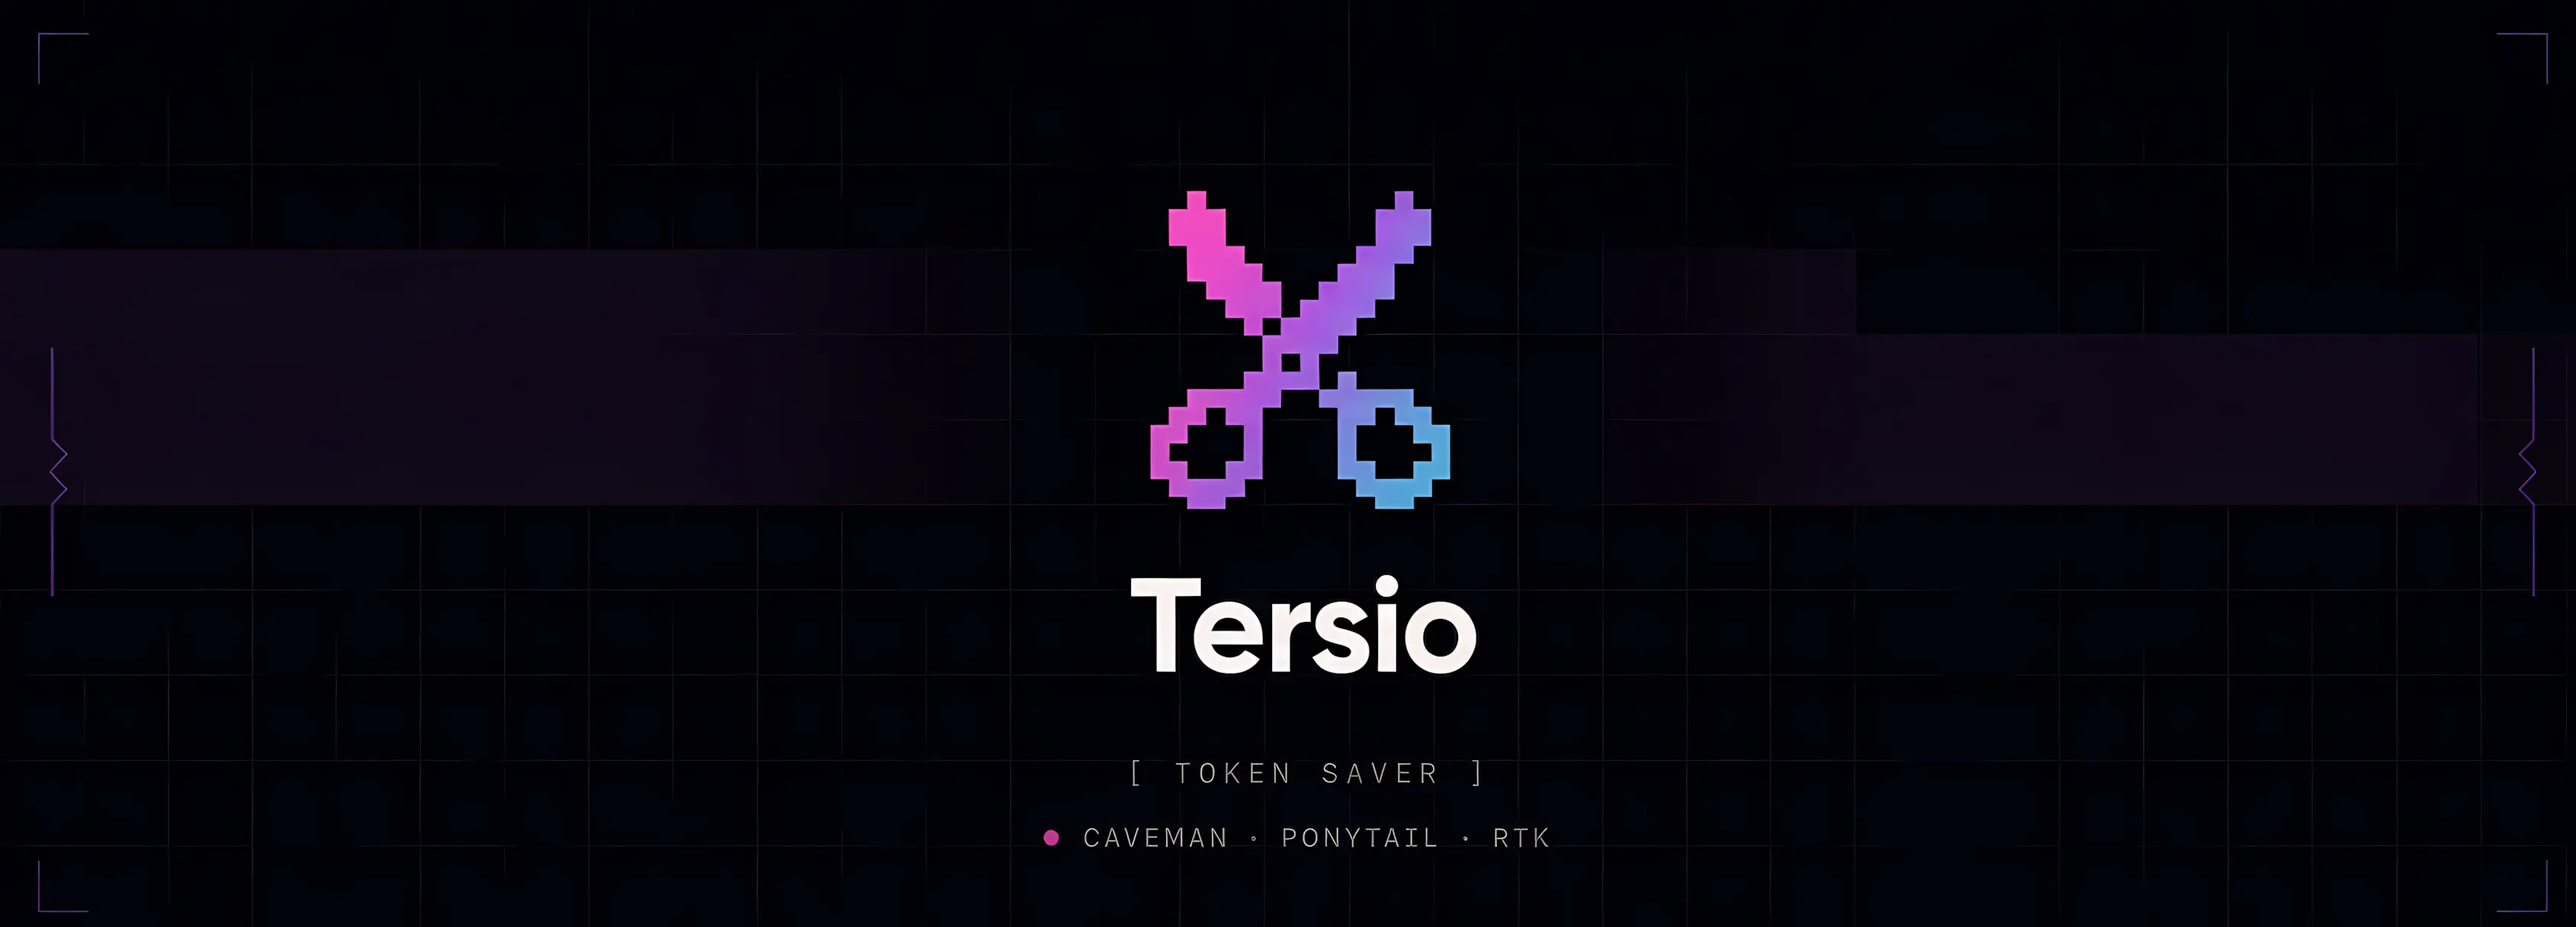
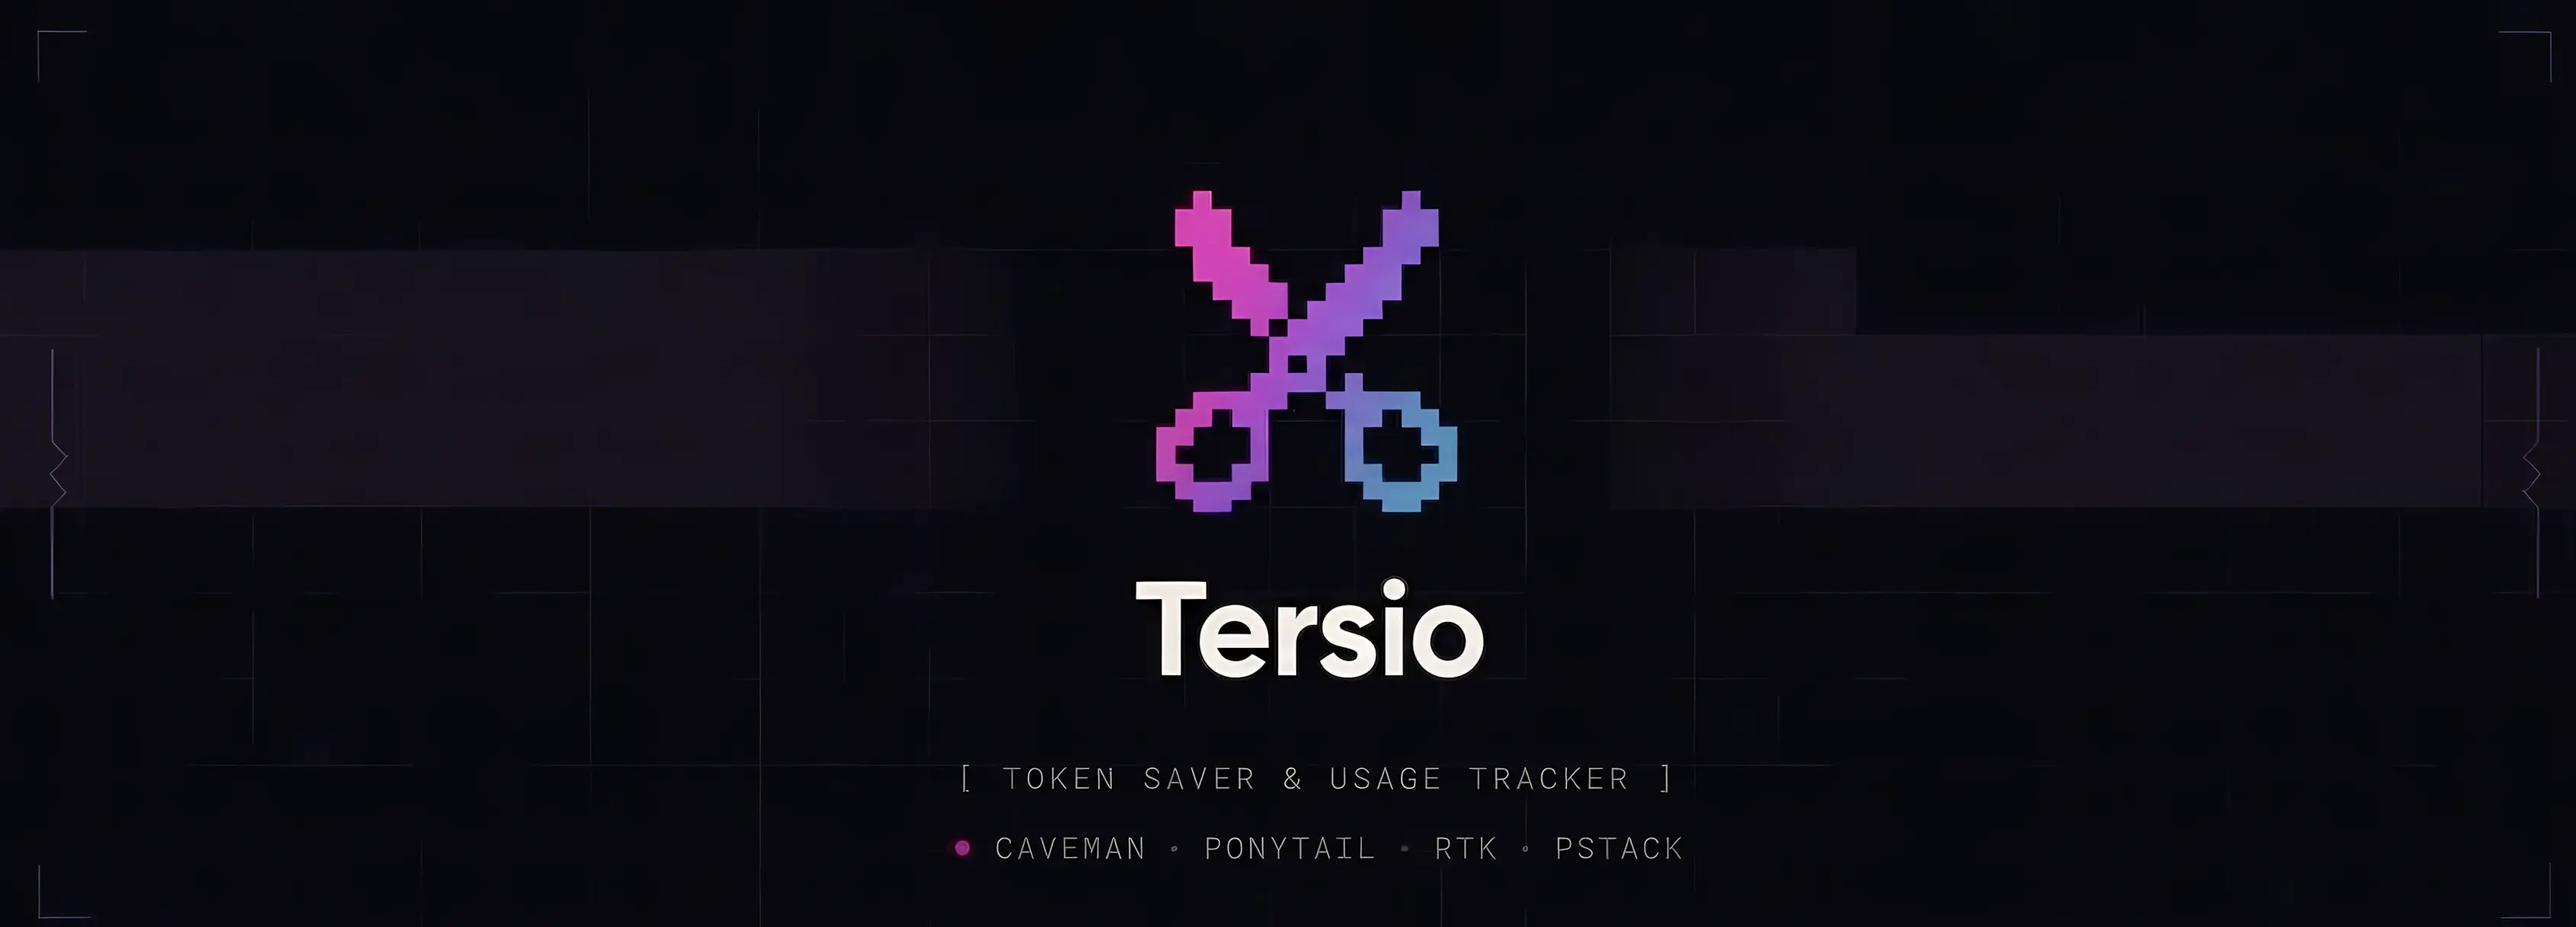
docs: move the benchmark detail out of the README and rule pstack into the protocol
The README carried a benchmark table whose numbers already live in docs/BENCHMARK.md, so the section and its four paragraphs are gone, and the intro now points at the file.

The Model prices and Price sources rows in Files and backups keep the facts and drop the prose: the precedence order, the local override, the unpriced hint.

docs/BENCHMARK.md gains pstack: the mode table and the Combo levels it rides, a scoring subsection (no token claim, quality gates and review rounds only, block 1,374 tokens), the run helper with its fifth flag, pstack in the agentic gates, the traps line for a preset left on, the reporting columns, and the checklist item.

Includes docs/Banner.webp, updated on disk.

diff --git a/README.md b/README.md
@@ -1,6 +1,6 @@
 ![Banner](./docs/Banner.webp)
 
-# ✂ Tersio — Token Saver OMP & Usage Tracker
+# ✂ Tersio — Token Saver & Usage Tracker
 
 [![npm version](https://shieldcn.dev/npm/@krtclcdy%2Ftersio.svg?variant=branded&size=xs&logo=npm)](https://www.npmjs.com/package/@krtclcdy/tersio)
 [![node](https://shieldcn.dev/badge/node-%3E%3D20.12-22c55e.svg?variant=branded&size=xs&logo=nodedotjs)](https://nodejs.org)
@@ -9,6 +9,8 @@
 [![MIT](https://shieldcn.dev/badge/license-MIT-2563eb.svg?variant=branded&size=xs&logo=opensourceinitiative)](./LICENSE)
 
 Token saver & usage tracker for coding agents: terse caveman replies, compact RTK shell output, lean Ponytail code calls, a pstack rigor mode, and a gain dashboard — one-command combo presets over one shared extension tree.
+
+Measured savings per mode, the prompt overhead each one adds, and the rerun protocol: [docs/BENCHMARK.md](./docs/BENCHMARK.md).
 
 ## ⚡ Getting Started
 
@@ -54,31 +56,6 @@ npm exec --yes --prefer-online --package=@krtclcdy/tersio@latest -- tersio insta
 - macOS or Linux, native or WSL
 
 On Windows, use WSL. There is no native Windows path: the installer, the extensions, and the RTK wiring are tested on macOS and Linux only. WSL has its own home directory, so install from inside WSL — `command -v npm` must resolve to a Linux path, not `/mnt/c/`.
-
-## 📊 Benchmarks
-
-Every mode is measured against a base run with all modes off. Measured surfaces use different boundaries. Do not treat reply-text, code-output, and shell-output reductions as total bill savings. **A mode also spends tokens on the prompt, on every turn — read the caveat under the table before choosing.** Results and the rerun protocol are in [docs/BENCHMARK.md](./docs/BENCHMARK.md).
-
-| Mode | Surface (n) | Base → Tersio | Δ |
-|---|---|---|---|
-| `/caveman full` | Terse reply, o200k tokens (3 samples, p50) | 124 → 107 | **−13.7% reply text** |
-| `/caveman ultra` | Terse reply, o200k tokens (3 samples, p50) | 124 → 109 | **−12.1% reply text** |
-| `/ponytail lite` | Code reply, o200k tokens (3 samples, p50) | 306 → 177 | **−42.2% code** |
-| `/ponytail full` | Code reply, o200k tokens (3 samples, p50) | 306 → 208 | **−32.0% code** |
-| `/ponytail ultra` | Code reply, o200k tokens (3 samples, p50) | 306 → 112 | **−63.4% code** |
-| `/combo medium` | Code reply, o200k tokens (3 samples, p50) | 306 → 132 | **−56.9% code** |
-| `/rtk on` — `bun run test` | Command output (3 runs, p50) | 4,003 → 54 | **−98.7% output** |
-| `/rtk on` — `find . -name '*.test.ts'` | Command output (3 runs, p50) | 10,908 → 248 | **−97.7% output** |
-| `/rtk on` — `ls -la .` | Command output (3 runs, p50) | 983 → 275 | **−72.0% output** |
-| `/rtk on` — `git status` | Command output (3 runs, p50) | 72 → 18 | **−75.0% output** |
-| `/rtk on` — `bun run build` | Command output (3 runs, p50) | 140 → 114 | **−18.6% output** |
-
-The two `/caveman` rows above are the exception worth naming: both levels spend more prompt tokens than the reply text they save, so they cost you money on net. Use Caveman for the terser writing style, not as a token saving.
-
-Prompt overhead is included in [docs/BENCHMARK.md](./docs/BENCHMARK.md) with a full prompt-base example. Summary: `/rtk on` pays back immediately, `/ponytail ultra` repays in about 7 code tasks, `/combo medium` in about 8, and every Caveman level costs more in prompt than it saves in reply text. pstack adds 1,374 tokens of prompt per turn, close to Caveman full's 1,158, and has no measured reply-text saving; its rules are trimmed to what caveman and ponytail do not already say.
-
-The Command tools dashboard reports weighted RTK command-output savings and OMP-specific adoption from executed Bash records. It does not estimate provider billing.
-Upstream Ponytail's fair agentic benchmark reports 54% less code, 22% fewer tokens, 20% lower cost, and 100% retained safety. RTK estimates command-output tokens, not bill savings. Caveman and Ponytail compliance varies by model. Measure your own sessions with `tersio usage` and the dashboard.
 
 ## 🖥 CLI
 
@@ -131,8 +108,8 @@ Shared, and identical for every host:
 | RTK binary | `~/.bun/bin/rtk` (`rtk.exe` on Windows). The runtime resolves `PATH` first, then this managed path. |
 | Usage ledger and price cache | `~/.tersio/` — local only, nothing leaves the machine |
 | `usage.db` host scope | `~/.tersio/usage.db` mirrors every agent Tersio reads: omp and pi transcripts, the OpenCode JSON tree, and the OpenCode v2 sqlite rows. Each row records its host and its agent kind, so a report splits by agent and by main agent or subagent. |
-| Model prices | `~/.tersio/prices.json` is a cache of LiteLLM's feed, refreshed in the background. `~/.tersio/prices.local.json` is yours: one entry per model id, keyed as the transcript spells it or with a `*` prefix to cover every gateway prefix. It wins over the feed, and it is how a gateway model the feed keys under another provider gets its real rate. `tersio usage` prints an `Unpriced (heaviest first)` line naming the model keys to add. |
-| Price sources | The cost the host itself reported wins over every rate card: it is the only figure from the party that billed. A recorded zero is a real zero, not a missing value — omp flags a request it could not price in a separate field, so a zero is a free model. A model counts as host-priced only when every one of its messages carried a cost. Then `prices.local.json`, then the LiteLLM cache, then a default table the report labels as a guess. |
+| Model prices | `~/.tersio/prices.json` caches LiteLLM's feed; `~/.tersio/prices.local.json` is yours, keyed by model id or a `*` gateway prefix, and it wins over the feed. `tersio usage` prints an `Unpriced` line naming the keys to add. |
+| Price sources | The host's own reported cost first, then `prices.local.json`, then the LiteLLM cache, then a default table the report labels a guess. A recorded zero is a real zero. A model counts as host-priced only when every message carried a cost. |
 | Data snapshots | `~/.tersio/backups/` — one directory per snapshot with a `manifest.json`; six are kept |
 
 Per host, written by `tersio install --host <omp|pi|opencode>`:

diff --git a/docs/BENCHMARK.md b/docs/BENCHMARK.md
@@ -52,8 +52,9 @@ Keep results out of git: write to `$BENCH_TMP`, or `benchmark/results/` only if 
 |---|---|---|
 | Caveman | `/caveman <level>` | `lite`, `full`, `ultra`, `megacave-lite`, `megacave-full`, `megacave-ultra` |
 | Ponytail | `/ponytail <level>` | `lite`, `full`, `ultra` |
-| Combo | `/combo <level>` | `medium` (caveman `lite` + rtk + ponytail `lite`), `balanced` (`full`/`on`/`full`), `max` (`ultra`/`on`/`ultra`) |
+| Combo | `/combo <level>` | `medium` (caveman `lite` + rtk + ponytail `lite` + pstack), `balanced` (`full`/`on`/`full`/`on`), `max` (`ultra`/`on`/`ultra`/`on`) |
 | RTK | `/rtk on` | `on` |
+| pstack | `/pstack on` | `on` |
 
 Set the mode through saved defaults, not a `/command` prefix: Ponytail and RTK inject at session
 start, and a prefix can leave the recorded prompt unchanged.
@@ -67,18 +68,32 @@ a Combo gives the saving. Use three prompts per surface.
 | Code | C1: Write a TypeScript function `chunk<T>(items: T[], size: number): T[][]` that splits an array into fixed-size chunks, and `chunkLazy` that yields chunks from an iterable without materializing the whole array.<br>C2: Write a TypeScript function `debounce` and a function `throttle`, both with the signature `(fn: (...args: T) => void, ms: number)`.<br>C3: Write a TypeScript function `groupBy<T, K extends PropertyKey>(items: T[], key: (item: T) => K): Record<K, T[]>` and `countBy` with the same inputs returning `Record<K, number>`. |
 | Agentic (tools on) | A: In the fixture repo, run the test suite. Fix the failing test. Stop when all tests pass. |
 
+### How pstack is scored
+
+pstack rides every Combo level above `off`, so a Combo run already carries it and the base run has to
+clear it (`--pstack-default off`). For its own numbers, run `--combo-default off --pstack-default on`.
+
+It has no reply-text saving to look for: its rules ask for more of the reply, not less. So pstack is
+scored on section 6's quality gates and on review rounds, never on tokens. Report `Block` with
+`Quality` beside it, mark the token columns `n/a`, and publish no saving for it.
+
+Counted offline with `<host> toks "<block>" --json` (`o200k_base`) on 2026-10-14, the injected block
+is 1,374 tokens: 25 of upstream's rules kept verbatim from `cursor/plugins` at `dbf4981`, against the
+skill's own 4,428 and Caveman `full` at 1,158.
+
 ## 4. Run procedure
 
 ```bash
-run() {  # run <caveman> <ponytail> <rtk> <combo> <prompt> <out>
+run() {  # run <caveman> <ponytail> <rtk> <combo> <pstack> <prompt> <out>
   tersio settings --caveman-default "$1" --ponytail-default "$2" \
-                  --rtk-default "$3" --combo-default "$4"
-  /usr/bin/time -f '%e' -o "$6.time" \
-    <host> -p --session-dir "$BENCH_TMP/$6" --no-tools \
-      --model "<model>" "$5" > "$6.out"
+                  --rtk-default "$3" --combo-default "$4" --pstack-default "$5"
+  /usr/bin/time -f '%e' -o "$7.time" \
+    <host> -p --session-dir "$BENCH_TMP/$7" --no-tools \
+      --model "<model>" "$6" > "$7.out"
 }
-run off off off off "$P1" base-p1      # base: all four off
-run ultra off off off "$P1" cav-ultra-p1
+run off off off off off "$P1" base-p1        # base: all five off
+run ultra off off off off "$P1" cav-ultra-p1
+run off off off off on "$P1" pstack-p1       # pstack alone: no token claim, scored on quality
 ```
 
 If `tersio settings --help` does not accept level values, adapt the flags.
@@ -144,8 +159,12 @@ A saving is valid only if the answer is still right. A mode that drops edge case
 3. For `megacave-*` modes, score by keyword meaning, not string match.
 
 **Agentic (A).** Pass = the suite is green and no test file was edited. Run base, `rtk on`,
-`ponytail ultra`, and `combo medium`, N = 5. Report the pass rate beside every token and time number;
-a failed run is reported, not dropped.
+`ponytail ultra`, `combo medium`, and pstack alone, N = 5. Report the pass rate beside every token
+and time number; a failed run is reported, not dropped.
+
+**pstack.** These gates are its only claim. Score the agentic pass, count the review rounds it took
+to land the change, and count a wrong turn as a failure even when the suite ends green. A block that
+passes no better than base is a cost with no return; report it that way.
 
 Report `Quality` (pass count out of N) beside every saving. Do not publish a saving for a mode that
 fails more often than base.
@@ -205,7 +224,7 @@ look for `... (N earlier lines, ctrl+o to expand)` in the output.
 
 ## 8. Traps
 
-- **Saved defaults.** Set all four to `off` before the base run.
+- **Saved defaults.** Set all five to `off` before the base run, pstack included: it rides every Combo level above `off`, so a preset left on measures nothing clean.
 - **Prompt on one surface only.** Code replies are longer than prose replies; use a separate base per surface.
 - **Combo without tools.** With `--no-tools` the RTK part does nothing but its block still costs tokens, so the result measures only Caveman + Ponytail. Label it so.
 - **Combo sums.** Check that the Combo `Block` equals the sum of its parts; if not, find the extra tokens (wrapper text?) and report them.
@@ -226,6 +245,9 @@ Put the summary table first.
 
 Then one table per mode family with a verdict line under each, same column names. For RTK:
 `Tool call | Base | After | Δ | Δ% | Δ time | Fidelity`.
+
+For pstack: `Mode | Surface | Block | Quality | Review rounds | Tokens | Time`, with the token
+columns marked `n/a`. Its block buys review rounds, not fewer tokens.
 
 Verdicts name the failure cases too. Write "strongest in this sample", never "saves 63%".
 
@@ -266,6 +288,7 @@ re-derived without counting by hand.
 - [ ] Every mode and level in section 3, on both surfaces
 - [ ] N = 5, median with min and max, three prompts per surface
 - [ ] Quality score beside every saving
+- [ ] pstack: `--pstack-default` cleared for the base; `Block` and `Quality` reported, no token claim
 - [ ] RTK: three groups, fidelity checks, end-to-end run
 - [ ] Token and time reported
 - [ ] Environment line complete
